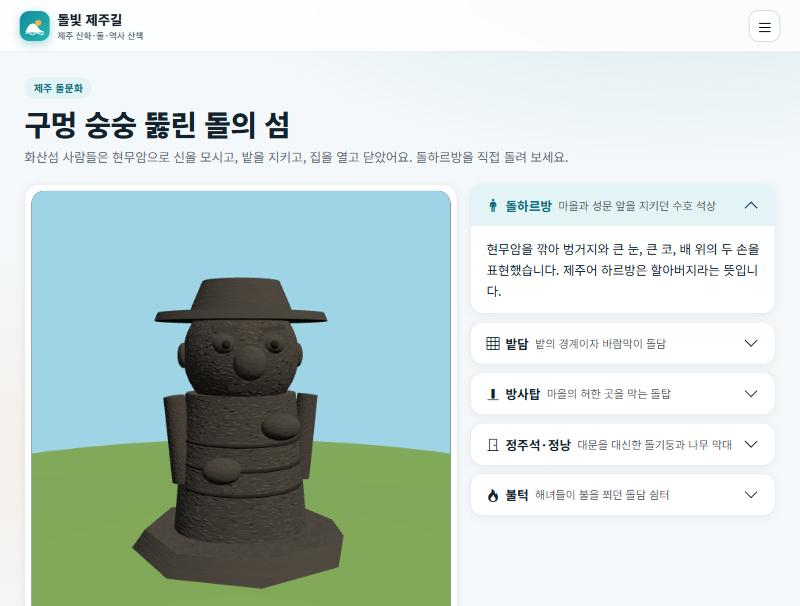
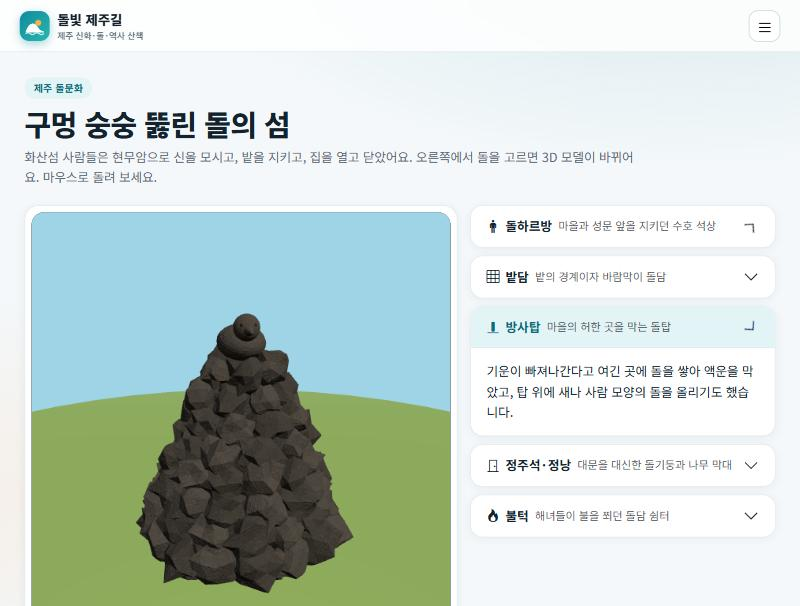
docs: README를 현재 완성본 기준으로 새로 정리
- 만든 이유, 페이지별 기능, 24곳 목록, 공공데이터 API, 기술 스택, 시작하기·배포, 폴더 구조, 출처·라이선스, 알아두기
- 스크린샷 교체(돌 전시 방사탑)와 신화 카드(사진) 추가

diff --git a/README.md b/README.md
@@ -4,41 +4,33 @@
 
 ### 돌이 말하고, 바람이 전하는 섬 — 오늘 걸을 제주 이야기 길을 짜 드립니다
 
+신화 · 돌문화 · 역사문화가 남은 제주의 장소 24곳을 지도에 모으고,<br/>
+**내 위치와 쓸 수 있는 시간에 맞춰 산책 코스**를 만들어 주는 웹 서비스
+
 ![Vite](https://img.shields.io/badge/Vite-6-646CFF?logo=vite&logoColor=white)
 ![React](https://img.shields.io/badge/React-19-61DAFB?logo=react&logoColor=black)
 ![three.js](https://img.shields.io/badge/three.js-3D-000000?logo=threedotjs&logoColor=white)
+![Leaflet](https://img.shields.io/badge/Leaflet-OpenStreetMap-199900?logo=leaflet&logoColor=white)
 ![Bootstrap](https://img.shields.io/badge/Bootstrap-5-7952B3?logo=bootstrap&logoColor=white)
 ![Supabase](https://img.shields.io/badge/Supabase-Auth·DB-3FCF8E?logo=supabase&logoColor=white)
 ![Claude](https://img.shields.io/badge/AI-Claude_agent-D97757)
 
 <img src="docs/home.jpg" alt="돌빛 제주길 홈 화면" width="760" />
 
+[기능](#-주요-기능) · [콘텐츠](#-담은-이야기-24곳) · [공공데이터](#-사용한-공공데이터-api) · [시작하기](#-시작하기) · [구조](#-폴더-구조) · [알아두기](#-알아두기)
+
 </div>
 
 ---
 
-## ✨ 한눈에 보기
+## 💡 만든 이유
 
-> **기획 의도** — 신화·돌·역사가 남은 장소를 지도에 모으고, **지금 내 위치와 쓸 수 있는 시간에 맞춰 이야기 산책 코스**를 짜 줍니다. 가서 도장을 찍고, 계정에 수첩으로 남깁니다.
+제주 여행 앱은 많지만, 신화·돌문화·역사 이야기를 **"오늘 내가 걸을 수 있는 길"** 로 묶어 주는 곳은 드뭅니다.
+돌빛 제주길은 세 가지를 합니다.
 
-| | 갈래 | 담은 것 | 지도 표지 |
-|---|---|---|---|
-| 🟠 | **신화·설화** | 설문대할망, 오백장군, 산방산, 삼성혈, 천제연 선녀 등 9곳 | 동그라미 |
-| ⚪ | **돌문화** | 돌하르방, 밭담, 방사탑, 정낭, 불턱, 돌문화공원, 만장굴, 거문오름 8곳 | 네모 |
-| 🔵 | **역사문화** | 제주목 관아, 항파두리, 4·3평화공원, 추사 유배지, 해녀박물관 등 7곳 | 마름모 |
-
-## 🧭 사용자 관점에서 다시 만든 부분
-
-"여행자가 실제로 다시 열어 볼까?"를 기준으로 약했던 곳을 보강했습니다.
-
-| 부족했던 점 | 이렇게 바꿨어요 |
-|---|---|
-| 내용이 얇다 (20곳) | **24곳**으로 늘리고, 장소마다 **머무는 시간·현장에서 볼 것·팁·비 오는 날/아이와 가기 좋은지**를 추가 (`src/data/walk.js`) |
-| 3D가 정보를 가린다 | 지도에 **2D ↔ 3D 전환**. 찾을 때는 2D(기본), 둘러볼 때는 3D |
-| 재방문할 이유가 없다 | **방문 도장판** + **로그인 계정에 수첩 저장** (Supabase) |
-| 위치에서 이어지는 게 없다 | **이야기 산책**: 출발지·시간·이동수단으로 코스를 짜고, 이동 시간·현장 팁·**길찾기** 링크까지 연결 |
-| 공공데이터가 숨어 있다 | 장소 상세와 산책 카드에서 **주변 볼거리·맛집(TourAPI)** 을 바로 조회 |
-| 과제의 AI 에이전트 | **AI 가이드**: "아이와 1시간, 비 오는 날" 같은 질문에 도구(코스·날씨·주변 관광정보)를 불러 코스를 추천 |
+1. **모읍니다** — 설문대할망의 한라산부터 4·3평화공원까지, 이야기가 남은 장소 24곳을 사진·현장 정보와 함께 담았습니다.
+2. **짭니다** — 출발지·시간·이동수단·날씨(비)·동행(아이)을 고르면 가까운 곳부터 코스를 묶고, 이동 시간과 길찾기까지 이어 줍니다.
+3. **남깁니다** — 장소마다 도장을 찍고, 담은 장소와 함께 계정 수첩에 보관합니다.
 
 ## 🗺 주요 기능
 
@@ -49,103 +41,55 @@
 </tr>
 <tr>
 <td align="center"><b>이야기 산책</b><br/>시간·이동수단·갈래로 코스를 짜고, 장소마다 도장을 찍습니다.</td>
-<td align="center"><b>AI 가이드</b><br/>질문을 말하면 도구를 불러 코스를 만들고 산책으로 열어 줍니다.</td>
+<td align="center"><b>AI 가이드</b><br/>"아이와 1시간, 비 오는 날"처럼 말하면 도구를 불러 코스를 만듭니다.</td>
 </tr>
 <tr>
 <td width="50%"><img src="docs/map2d.jpg" alt="2D 문화 지도" /></td>
 <td width="50%"><img src="docs/stone.jpg" alt="돌 전시 3D" /></td>
 </tr>
 <tr>
-<td align="center"><b>2D · 3D 문화 지도</b><br/>OpenStreetMap 실제 지도 위의 2D, 오름 368개의 3D 지도.</td>
-<td align="center"><b>돌 전시 3D</b><br/>돌하르방·밭담·방사탑·정주석과 정낭·불턱. 오른쪽 설명을 고르면 모델이 바뀝니다.</td>
+<td align="center"><b>2D · 3D 문화 지도</b><br/>OpenStreetMap 실제 지도 위의 2D, 오름 368개가 있는 3D.</td>
+<td align="center"><b>돌 전시 3D</b><br/>오른쪽에서 돌을 고르면 3D 모델과 카메라가 바뀝니다.</td>
+</tr>
+<tr>
+<td colspan="2" align="center"><img src="docs/myth.jpg" alt="신화·설화 카드" width="50%" /><br/><b>신화·설화</b> — 장소 사진과 이야기를 카드로, 눌러서 전문을 읽습니다.</td>
 </tr>
 </table>
 
-- **이야기 산책** — 가까운 곳부터 갈래가 겹치지 않게 고르는 코스 알고리즘(`src/lib/course.js`). 비 오는 날·아이와 함께 옵션, 이동 시간은 직선거리에 우회 계수를 곱한 어림값
-- **방문 도장** — 장소 500m 안에서 찍으면 **현장 도장**, 아니면 **체험 도장**
-- **로그인·회원가입** — Supabase Auth. 키가 없으면 브라우저 안에서만 도는 체험 모드(비밀번호는 솔트+SHA-256 해시)
-- **계정 수첩** — 담은 장소와 도장을 계정에 저장(`notebooks` 테이블, RLS). 기기를 바꿔도 이어집니다
-- **AI 가이드** — `ANTHROPIC_API_KEY`가 있으면 Claude가 도구를 골라 부르고, 없으면 규칙 기반 가이드가 같은 도구를 직접 호출
-- **내 위치 연동** — Geolocation으로 거리 계산·정렬 (권한이 없으면 제주시청 기준 체험 모드)
-- **신화·설화 / 돌문화 도감** — 갈래별 이야기 모달, 돌문화 5종(돌하르방·밭담·방사탑·정주석과 정낭·불턱) 3D 전시 — 설명을 고르면 모델과 카메라가 따라 바뀌고, 정낭은 직접 걸어 볼 수 있고, 불턱에는 불이 타오름
-- **공공데이터 6종** — 한국관광공사 TourAPI, 국가유산청, 기상청 단기예보, 그리고 **제주도청 신화 콘텐츠(182건)**, **제주돌문화공원 소장유물(77점)**, **제주역사문화위치정보**
+### 페이지별로 보면
 
-## 🎨 디자인 컨셉 — "제주 블루 · 감귤 오렌지"
-
-Bootstrap 5 위에 **밝고 깔끔한 여행 앱** 느낌의 테마를 덧입혔습니다.
-
-- **상단 내비게이션** — 흰 유리 질감의 sticky 헤더. 좁은 화면에서는 햄버거 메뉴(Offcanvas)와 **하단 탭바**(홈·지도·이야기 산책·AI 가이드·내 수첩)
-- **카드** — 흰 배경, 얇은 테두리와 부드러운 그림자, 둥근 모서리. 갈래별 색(신화 주황, 돌 회청, 역사 파랑)은 아이콘 타일로 표시
-- **홈** — 큰 제목 + 3D 섬 카드, 숫자 요약 줄, 바로가기 3개(산책·가이드·지도), 세 갈래 카드, 내 주변 장소
-- **갈래 무늬 머리띠** — 사진이 없는 장소 카드에 신화(별빛), 돌문화(현무암), 역사문화(기와선) 무늬를 얹어 카드마다 얼굴을 줍니다
-- **오늘의 코스 · 세 걸음 안내** — 홈에서 바로 걸어 볼 2시간 코스와, 위치→시간→도장의 사용법을 보여 줍니다
-- **도장 효과** — 도장을 찍으면 쾅 찍히는 움직임과 `n/24` 진행도가 나옵니다
-- **로고** — 오름과 떠오르는 해, 파도를 그린 SVG 마크(헤더와 파비콘 공통)
-- **3D 장면** — 돌 전시는 밝은 하늘과 풀밭·모래 바닥, 페이지 전환은 가볍게 올라오는 효과(동작 줄이기 설정 시 꺼짐)
-- **색** — 바다 `#0f8b9d`, 감귤 `#ff8a1f`, 잉크 `#13222d`, 배경 `#f4f8fa`
-- **글꼴** — Noto Sans KR
-
-## 🧱 폴더 구조
-
-```
-project/
-├─ api/                 Vercel 서버 함수 (주소 = /api/파일이름) — 비밀 키는 여기서만
-│  ├─ hello.js            동작 확인
-│  ├─ tour.js             한국관광공사 (위치기반·키워드)
-│  ├─ heritage.js         국가유산청
-│  ├─ weather.js          기상청
-│  ├─ myth.js · stonepark.js   제주도청 신화 콘텐츠 / 돌문화공원 유물
-│  ├─ history.js          제주역사문화위치정보 (odcloud)
-│  └─ guide.js            AI 가이드 (GET /api/guide?q=)
-├─ server/              공공 API·에이전트 호출 함수 (api/ 가 import)
-│  ├─ jejugo.js           제주도청 API 두 개(XML 파싱·전체 페이지 수집·1시간 캐시)
-│  ├─ history.js          odcloud 호출 (serviceKey)
-│  └─ guide.js            도구(plan_course·get_weather·nearby_tour·search_places) + Claude 루프 + 규칙 기반 대체
-├─ supabase/schema.sql  notebooks 테이블 + RLS
-├─ src/
-│  ├─ router.jsx          메뉴(NAV_ITEMS) + 주소별 페이지
-│  ├─ layouts/            공통 틀 (상단 내비, 모바일 탭바·Offcanvas, 계정 버튼)
-│  ├─ pages/              Home · MapPage · Myth · Stone · Walk · Guide · Places · Notebook · Login
-│  ├─ components/         ThreeStage · JejuMapView(3D) · RealMap(2D 실제 지도) · ui · MythArchive · RelicShelf · HistoryPlaces
-│  ├─ scenes/             terrain · jejuMap · harbang · helpers  (three.js)
-│  ├─ data/               places(24곳) · walk(현장 정보) · stones(돌문화 해설)
-│  ├─ store/              Zustand — useAppStore(수첩·도장·지도) · useAuthStore(로그인)
-│  ├─ lib/                geo(거리) · course(코스 알고리즘) · auth · cloud · sync
-│  └─ api/client.js       화면 → /api 호출
-└─ docs/                README 스크린샷
-```
-
-## 🚀 실행하기
-
-```bash
-npm install
-cp .env.example .env.local     # 키 입력 (모두 선택)
-npm run dev                    # http://localhost:5173
-```
-
-`npm run dev` 만으로도 `/api/*` 서버 함수가 동작합니다. (`vite.config.js`의 개발용 미들웨어가 `api/` 폴더를 그대로 불러 줍니다. 배포 시에는 Vercel이 같은 파일을 서버 함수로 실행합니다.)
-
-> 키가 없어도 지도·신화·돌문화·산책·도장·로그인(체험 모드)·기본 AI 가이드는 모두 동작합니다.
-
-### 환경변수
-
-| 이름 | 용도 | 비고 |
+| 페이지 | 주소 | 하는 일 |
 |---|---|---|
-| `DATA_GO_KR_KEY` | 한국관광공사 TourAPI · 기상청 단기예보 | 공공데이터포털 **Decoding 키**. 브라우저에 노출되지 않음 |
-| `VITE_SUPABASE_URL` · `VITE_SUPABASE_ANON_KEY` | 로그인·회원가입, 계정 수첩 | anon 키는 공개용. 비우면 체험 모드. `supabase/schema.sql` 을 먼저 실행 |
-| `ANTHROPIC_API_KEY` | AI 가이드(Claude 에이전트) | 서버 전용. 비우면 규칙 기반 가이드. `ANTHROPIC_MODEL` 로 모델 변경 가능 |
+| **홈** | `/` | 오늘의 코스(2시간), 세 걸음 사용법, 세 갈래 소개, 내 위치에서 가까운 이야기 3곳 |
+| **지도** | `/map` | 2D(실제 지도, 기본)와 3D 전환, 갈래별 레이어, 장소 상세·길찾기·주변 볼거리 |
+| **이야기 산책** | `/walk` | 코스 만들기, 장소별 이동·머묾 시간·현장 팁·도장·길찾기 |
+| **AI 가이드** | `/guide` | 말로 묻고 코스를 받아 산책 화면으로 열기 |
+| **신화·설화** | `/myth` | 설화 9편 카드와 전문, 제주도청 신화 아카이브(182건) 검색 |
+| **돌문화** | `/stone` | 돌 5종 3D 전시(돌하르방·밭담·방사탑·정주석과 정낭·불턱), 돌문화공원 소장 유물(77점) |
+| **위치정보** | `/places` | 엮은 장소 표, 역사문화 위치(공공데이터), 내 주변(TourAPI), 국가유산 |
+| **내 수첩** | `/notebook` | 담은 장소, 방문 도장판(n/24), 계정 저장 상태 |
+| **로그인** | `/login` | 가입·로그인 (Supabase, 키가 없으면 체험 모드) |
 
-국가유산청과 제주도청 두 API(신화 콘텐츠, 돌문화공원 유물)는 키가 필요 없습니다. 제주역사문화위치정보는 `DATA_GO_KR_KEY` 로 호출하며, 공공데이터포털에서 해당 데이터의 활용신청이 필요합니다. 값을 바꾼 뒤에는 개발 서버를 다시 시작하세요.
+### 기능 자세히
 
-### Supabase 설정 (선택)
+- **코스 만들기** — 가까운 곳부터 고르되 같은 갈래가 몰리지 않게 점수를 줍니다. 비 오는 날은 실내·우천 가능 장소만, 아이와 함께는 아이에게 맞는 장소를 우대합니다. 이동 시간은 직선거리에 우회 계수를 곱한 **어림값**이라 실제 길찾기는 장소마다 있는 길찾기 버튼(카카오맵 링크)으로 이어집니다. (`src/lib/course.js`)
+- **방문 도장** — 장소 500m 안에서 찍으면 **현장 도장**, 아니면 **체험 도장**입니다. 찍을 때 도장이 눌리는 효과와 진행도가 나옵니다.
+- **AI 가이드** — 서버에 도구 5개(코스 짜기 · 날씨 · 주변 관광정보 · 장소 검색 · 신화 아카이브 검색)를 두었습니다. `ANTHROPIC_API_KEY`가 있으면 Claude가 도구를 골라 부르고, 없으면 규칙 기반 가이드가 같은 도구를 직접 부릅니다. 화면에 어느 쪽이 답했는지 표시합니다.
+- **돌 전시 3D** — 오른쪽 설명을 고르면 모델이 커지며 바뀌고 카메라가 따라갑니다. 정낭은 *정낭 걸기* 버튼으로 막대를 걸어 볼 수 있고, 불턱에서는 불이 흔들립니다. 돌하르방은 한낮·노을·달밤 조명과 감귤 소품이 있습니다.
+- **공공데이터 연결** — 장소 상세와 산책 카드에서 *주변 볼거리·맛집*을 누르면 한국관광공사 데이터를 불러옵니다.
+- **계정 수첩** — 로그인하면 담은 장소·도장을 계정에 저장하고 기기를 바꿔도 이어집니다. 불러오기에 실패하면 저장하지 않아 빈 값으로 덮어쓰지 않습니다.
 
-1. Supabase 프로젝트를 만들고 **SQL Editor**에서 [`supabase/schema.sql`](supabase/schema.sql)을 실행합니다.
-2. **Settings → API**의 Project URL과 `anon` `public` 키를 `.env.local`에 넣습니다. (`service_role` 키는 넣지 마세요)
-3. 이메일 확인을 켜 두었다면 가입 후 메일의 링크를 눌러야 로그인됩니다.
+## 📍 담은 이야기 24곳
 
-> **2D 지도**는 Leaflet + OpenStreetMap 타일(인증키 없음)입니다. 지도 오른쪽 아래에 출처를 표시하며, 많은 트래픽을 받는 서비스로 공개할 때는 [OSM 타일 사용 정책](https://operations.osmfoundation.org/policies/tiles/)에 맞게 자체 타일 서버나 상용 타일로 바꾸세요.
+| 갈래 | 지도 표지 | 장소 |
+|---|---|---|
+| 🟠 **신화·설화** 9 | 동그라미 | 한라산(설문대할망) · 영실 오백장군 · 물장오리 · 산방산 · 성산일출봉 · 삼성혈 · 귀덕 복덕개(영등할망) · 용두암 · 천제연폭포(칠선녀) |
+| ⚪ **돌문화** 8 | 네모 | 제주돌문화공원 · 관덕정 일대 돌하르방 · 북촌리 방사탑 · 구좌 밭담 지대 · 성읍민속마을 · 하도리 해녀 불턱 · 만장굴 · 거문오름 |
+| 🔵 **역사문화** 7 | 마름모 | 제주목 관아 · 항파두리 항몽유적 · 제주4·3평화공원 · 추사 유배지 · 김만덕기념관 · 알뜨르 비행장 · 해녀박물관 |
 
-## 🌐 사용한 API
+장소마다 요약, 이야기 전문, 키워드와 함께 **머무는 시간 · 현장에서 볼 것 · 팁 · 비 오는 날/아이와 가기 좋은지**(`src/data/walk.js`)를 담았습니다.
+
+## 🌐 사용한 공공데이터 API
 
 | API | 엔드포인트 | 화면 |
 |---|---|---|
@@ -154,38 +98,128 @@ npm run dev                    # http://localhost:5173
 | 기상청 단기예보 | `/api/weather?place=` | 홈, AI 가이드(비 확인) |
 | 제주 신화 콘텐츠 (제주도청, 키 없음) | `/api/myth?keyword=&type=` ← `jeju.go.kr/rest/JejuMythContents/getJejuMythContentsList` | 신화·설화 › 신화 아카이브(제목·구분·태그), AI 가이드 |
 | 제주돌문화공원 소장유물 (제주도청, 키 없음) | `/api/stonepark?keyword=&material=&age=` ← `jeju.go.kr/api/jejustonepark/have` | 돌문화 › 소장 유물 |
-| 제주역사문화위치정보 (공공데이터포털 15109570) | `/api/history?page=&perPage=` ← `api.odcloud.kr/api/15109570/v1/uddi:8781…` | 위치정보 › 역사문화 위치 (2D 지도 + 목록) |
+| 제주역사문화위치정보 (공공데이터포털 15109570) | `/api/history?page=&perPage=` ← `api.odcloud.kr/api/15109570/v1/uddi:8781…` | 위치정보 › 역사문화 위치 (지도 + 목록) |
 | AI 가이드(자체) | `/api/guide?q=&lat=&lng=` | AI 가이드 |
+
+브라우저는 `/api`만 부르고, 공공데이터 키는 서버 함수에서만 씁니다.
+
+## 🧰 기술 스택
+
+| 영역 | 사용 |
+|---|---|
+| 화면 | React 19 · React Router 7 · Zustand 5 · Bootstrap 5 + react-bootstrap · bootstrap-icons |
+| 3D | three.js (도형으로 직접 만든 지형·오름·돌 모델) |
+| 지도 | Leaflet + OpenStreetMap 타일 |
+| 서버 함수 | `api/` + `server/` (Vercel 방식, 개발 중에는 Vite 미들웨어가 대신 실행) |
+| 로그인·저장 | Supabase Auth + `notebooks` 테이블(RLS) — 키가 없으면 브라우저 체험 모드 |
+| AI | Claude Messages API의 도구 호출(tool use) — 키가 없으면 규칙 기반 대체 |
+| 빌드 | Vite 6 |
+
+## 🚀 시작하기
+
+```bash
+npm install
+cp .env.example .env.local     # 키 입력 (모두 선택)
+npm run dev                    # http://localhost:5173
+```
+
+`npm run dev`만으로도 `/api/*`가 동작합니다. (`vite.config.js`의 개발용 미들웨어가 `api/` 폴더를 그대로 불러 줍니다. 배포할 때는 Vercel이 같은 파일을 서버 함수로 실행합니다.)
+
+> 키가 없어도 지도 · 신화 · 돌문화 · 산책 · 도장 · 체험 모드 로그인 · 기본 AI 가이드 · 신화 아카이브 · 소장 유물 · 국가유산 검색은 동작합니다.
+
+### 환경변수
+
+`.env.local`에 넣습니다. (git에는 올라가지 않습니다)
+
+| 이름 | 용도 | 비고 |
+|---|---|---|
+| `DATA_GO_KR_KEY` | 한국관광공사 · 기상청 · 제주역사문화위치정보 | 공공데이터포털 **일반 인증키의 Decoding 값** 하나. 데이터마다 활용신청이 필요합니다 |
+| `VITE_SUPABASE_URL` · `VITE_SUPABASE_ANON_KEY` | 로그인·회원가입, 계정 수첩 | `anon` 키(공개용)만 넣고 `service_role`은 넣지 마세요. 비우면 체험 모드 |
+| `ANTHROPIC_API_KEY` | AI 가이드(Claude 에이전트) | 서버 전용 — 앞에 `VITE_`를 붙이지 마세요. `ANTHROPIC_MODEL`로 모델 변경 가능 |
+
+값을 바꾼 뒤에는 개발 서버를 다시 시작하세요.
+
+### Supabase 설정 (선택)
+
+1. Supabase 프로젝트를 만들고 **SQL Editor**에서 [`supabase/schema.sql`](supabase/schema.sql)을 실행합니다.
+2. **Settings → API**의 Project URL과 `anon` `public` 키를 `.env.local`에 넣습니다.
+3. 이메일 확인을 켜 두었다면 가입 후 메일의 링크를 눌러야 로그인됩니다.
+
+### 배포 (Vercel)
+
+`vercel.json`이 있어 SPA 주소가 동작합니다. Vercel 프로젝트 환경변수에 위 이름을 그대로 등록하세요. 공개 배포 전에는 아래 [알아두기](#-알아두기)의 호출 제한과 지도 타일 정책을 먼저 확인하세요.
+
+## 🧱 폴더 구조
+
+```
+project/
+├─ api/                  서버 함수 (주소 = /api/파일이름) — 비밀 키는 여기서만
+│  ├─ hello · tour · heritage · weather
+│  ├─ myth · stonepark   제주도청 신화 콘텐츠 / 돌문화공원 유물
+│  ├─ history            제주역사문화위치정보 (odcloud)
+│  └─ guide              AI 가이드
+├─ server/               공공 API·에이전트 호출 함수 (api/ 가 import)
+│  ├─ jejugo.js            제주도청 API 두 개 (XML 파싱·전체 페이지 수집·1시간 캐시)
+│  ├─ guide.js             도구 5개 + Claude 호출 루프 + 규칙 기반 대체
+│  └─ tour · heritage · weather · history
+├─ supabase/schema.sql   notebooks 테이블 + RLS
+├─ src/
+│  ├─ router.jsx           메뉴(NAV_ITEMS)와 주소별 페이지
+│  ├─ layouts/             상단 내비, 모바일 탭바·메뉴, 계정 버튼
+│  ├─ pages/               Home · MapPage · Walk · Guide · Myth · Stone · Places · Notebook · Login
+│  ├─ components/          RealMap(2D) · JejuMapView(3D) · ThreeStage · MythArchive · RelicShelf · HistoryPlaces · ui
+│  ├─ scenes/              terrain · jejuMap · harbang(돌 전시) · helpers  (three.js)
+│  ├─ data/                places(24곳) · walk(현장 정보) · photos(사진·출처) · stones(돌문화 해설)
+│  ├─ store/               useAppStore(수첩·도장·지도) · useAuthStore(로그인)
+│  ├─ lib/                 geo(거리) · course(코스 알고리즘) · auth · cloud · sync
+│  ├─ api/client.js        화면 → /api 호출
+│  └─ styles/theme.css     Bootstrap 위에 덧입힌 테마
+└─ docs/                 README 스크린샷
+```
 
 ## 🧠 구현 메모
 
-- **지형 생성** — 외부 모델 없이 높이함수(섬 윤곽 + 한라산 가우시안 + 기복)로 메시를 만들고. 오름 368개는 고정 시드의 `InstancedMesh`입니다.
-- **3D ↔ React 연결** — `ThreeStage`가 렌더 루프·리사이즈·정리(dispose)를 맡고, 장면은 React 값을 담은 `live` ref를 읽습니다.
+- **지형 생성** — 외부 모델 없이 높이함수(섬 윤곽 + 한라산 가우시안 + 기복)로 메시를 만들고, 높이에 따라 정점 색을 입힙니다. 오름 368개는 고정 시드의 `InstancedMesh`입니다.
+- **3D ↔ React 연결** — `ThreeStage`가 렌더 루프·리사이즈·정리(dispose)를 맡고, 장면은 React 값을 담은 `live` ref를 읽습니다. 상태가 바뀌어도 장면을 다시 만들지 않습니다.
+- **돌 전시** — 모델 5개를 한 장면에 만들어 두고, 선택한 것만 커지며 나타납니다. 돌은 꼭짓점을 위치 기준으로 흔든 이십면체(현무암 질감)이고, 밭담·방사탑·불턱은 난수 시드를 고정해 새로고침해도 모양이 같습니다.
 - **코스 알고리즘** — 현재 위치에서 시간 안에 들어가는 후보 중 `이동 시간 + 같은 갈래 가산점 − 아이 동반 가산점`이 가장 낮은 곳을 반복해서 고릅니다. 화면과 서버(AI 도구)가 같은 함수를 씁니다.
-- **에이전트** — 서버가 `plan_course`·`get_weather`·`nearby_tour`·`search_places` 도구를 Claude에 노출하고, `tool_use`가 끝날 때까지 최대 6번 반복합니다. 코스의 사실(시간·거리·장소)은 도구 결과에서만 가져오게 지시했습니다.
-- **수첩 동기화** — 로그인하면 계정 수첩을 불러와 로컬과 합집합으로 합친 뒤 변경마다 저장합니다. 불러오기에 실패하면 저장하지 않아 빈 값으로 덮어쓰지 않습니다. 로그아웃하면 이 기기의 수첩을 비웁니다.
+- **에이전트** — 서버가 도구를 Claude에 노출하고 `tool_use`가 끝날 때까지 최대 6번 반복합니다. 코스의 사실(시간·거리·장소)은 도구 결과에서만 가져오게 지시했습니다.
+- **제주도청 API 다루기** — 신화 API는 조건 파라미터를 무시하고 전체 182건을 주고, 유물 API는 한 페이지 9건 고정이라, 서버에서 전체를 받아 걸러 냅니다. 신화 응답의 e-book·PDF 주소는 모두 "페이지 없음"으로 연결돼(364개 확인) 쓰지 않습니다.
+- **수첩 동기화** — 로그인하면 계정 수첩을 불러와 로컬과 합집합으로 합친 뒤 변경마다 저장하고, 로그아웃하면 이 기기의 수첩을 비웁니다.
 
-## 📷 사진 출처
+## 🎨 디자인 — "제주 블루 · 감귤 오렌지"
 
-장소 사진 22장은 [위키미디어 커먼즈](https://commons.wikimedia.org)의 자유 이용 사진(CC0 · CC BY · CC BY-SA · 공공누리 1유형 · 퍼블릭 도메인)입니다. 카드와 상세 화면에 **작성자 · 라이선스 · 원본 링크**를 함께 표시하고, 목록은 [`src/data/photos.js`](src/data/photos.js)에 있습니다.
+Bootstrap 5 위에 **밝고 깔끔한 여행 앱** 느낌의 테마를 입혔습니다.
 
-- 사진은 위키미디어 서버에서 바로 불러오며(앱에 복사해 두지 않음), 불러오지 못하면 갈래 무늬 머리띠가 대신 보입니다.
-- 귀덕 복덕개와 하도리 불턱은 쓸 만한 자유 이용 사진을 찾지 못해 사진이 없습니다.
-- 일부 사진은 같은 종류의 다른 장소입니다. 방사탑은 용수리 방사탑, 추사 유배지는 추사의 불이선란도, 김만덕기념관은 김만덕 묘비 사진이며 사진 아래에 그렇게 표시됩니다. 직접 찍은 사진이나 더 맞는 사진이 있으면 `photos.js`에서 바꾸세요.
-- 사진은 제가 이름으로 골랐고 장소와 맞는지 눈으로 훑어봤지만, 현지 확인은 하지 않았습니다.
+| 바다 | 감귤 | 잉크 | 배경 |
+|---|---|---|---|
+| `#0f8b9d` | `#ff8a1f` | `#13222d` | `#f4f8fa` |
+
+- 넓은 화면은 상단 내비게이션, 모바일은 **하단 탭바**(홈·지도·이야기 산책·AI 가이드·내 수첩)와 햄버거 메뉴
+- 흰 카드 · 얇은 테두리 · 부드러운 그림자 · 둥근 모서리, 글꼴 Noto Sans KR
+- 장소 카드는 **사진**, 사진이 없으면 갈래별 무늬(신화 별빛 · 돌문화 현무암 · 역사문화 기와선)
+- 도장 효과, 오름·해·파도 로고(헤더·파비콘), 시스템의 "동작 줄이기" 설정이면 움직임을 끕니다
+
+## 📷 출처와 라이선스
+
+- **장소 사진 22장** — [위키미디어 커먼즈](https://commons.wikimedia.org)의 자유 이용 사진(CC0 · CC BY · CC BY-SA · 공공누리 1유형 · 퍼블릭 도메인). 카드와 상세 화면에 **작성자 · 라이선스 · 원본 링크**를 표시하고, 목록은 [`src/data/photos.js`](src/data/photos.js)에 있습니다. 위키미디어에서 바로 불러오며 앱에 복사해 두지 않고, 불러오지 못하면 무늬 머리띠가 대신 보입니다. 귀덕 복덕개와 하도리 불턱은 사진이 없습니다. 방사탑(용수리), 추사 유배지(불이선란도), 김만덕기념관(묘비)은 같은 종류의 다른 사진이며 사진 아래에 그렇게 표시됩니다.
+- **2D 지도** — © [OpenStreetMap](https://www.openstreetmap.org/copyright) 기여자. 지도 오른쪽 아래의 출처 표시를 지우지 마세요.
+- **공공데이터** — 제주특별자치도, 한국관광공사, 국가유산청, 기상청, 공공데이터포털.
 
 ## ⚠ 알아두기
 
 - **전승은 지역과 채록자에 따라 다릅니다.** 대표적인 이야기를 요약한 것이며, 발표·배포 전 검수가 필요합니다.
-- 지도의 **좌표와 머무는 시간은 대략값**입니다. 운영 시간·예약(한라산, 거문오름 등)은 방문 전에 확인하세요.
-- 제주도청 두 API와 국가유산청 API는 키 없이 실제 응답을 확인했습니다(신화 182건, 유물 77점, 국가유산 검색). 제주도청 API는 조건 파라미터를 무시하거나 페이지 크기를 9로 고정하므로 서버에서 전체를 받아 걸러 냅니다.
-- 제주역사문화위치정보, 한국관광공사, 기상청, Supabase, Claude 연동은 **키 없이는 실제 호출을 검증하지 못했습니다.** 키를 넣은 뒤 `/api/hello`, `/api/tour?lat=33.5&lng=126.53`, 가입·로그인, AI 가이드 질문을 차례로 확인하세요.
+- **좌표와 머무는 시간은 대략값**입니다. 운영 시간·예약(한라산, 거문오름 등)은 방문 전에 확인하세요. 코스의 이동 시간도 어림값입니다.
+- 제주도청 두 API와 국가유산청 API는 키 없이 실제 응답을 확인했습니다. 제주역사문화위치정보, 한국관광공사, 기상청, Supabase, Claude 연동은 **키 없이는 실제 호출을 검증하지 못했습니다.** 키를 넣은 뒤 `/api/hello`, `/api/tour?lat=33.5&lng=126.53`, `/api/weather`, `/api/history`, 가입·로그인, AI 가이드 질문을 차례로 확인하세요.
+- 신화 아카이브는 제목·구분·태그만 보여 주는 목록이라 이야기 본문은 없습니다. 각 카드의 *더 알아보기*는 검색으로 연결됩니다.
 - 체험 모드(Supabase 없음)의 계정은 그 브라우저에만 있고 보안 수단이 아닙니다.
-- AI 가이드 API는 호출 횟수 제한이 없습니다. 공개 배포 전에 제한을 두세요.
+- **AI 가이드 API는 호출 횟수 제한이 없습니다.** 공개 배포 전에 제한을 두세요.
+- OSM 공개 타일은 가벼운 사용을 위한 것입니다. 방문자가 많은 서비스로 공개할 때는 [타일 사용 정책](https://operations.osmfoundation.org/policies/tiles/)에 맞게 자체 타일 서버나 상용 타일로 바꾸세요.
+- 위치 권한이 없으면 제주시청 부근(체험용)에서 출발합니다. 도장의 현장 확인은 브라우저가 알려 주는 위치를 믿기 때문에 속일 수 있습니다.
 
 ---
 
 <div align="center">
-제주대 청년도약 부트캠프 · 제주 IP 프로젝트<br/>
+제주 IP 개별 과제 · 돌빛 제주길<br/>
 <sub>돌 · 바람 · 이야기</sub>
 </div>
